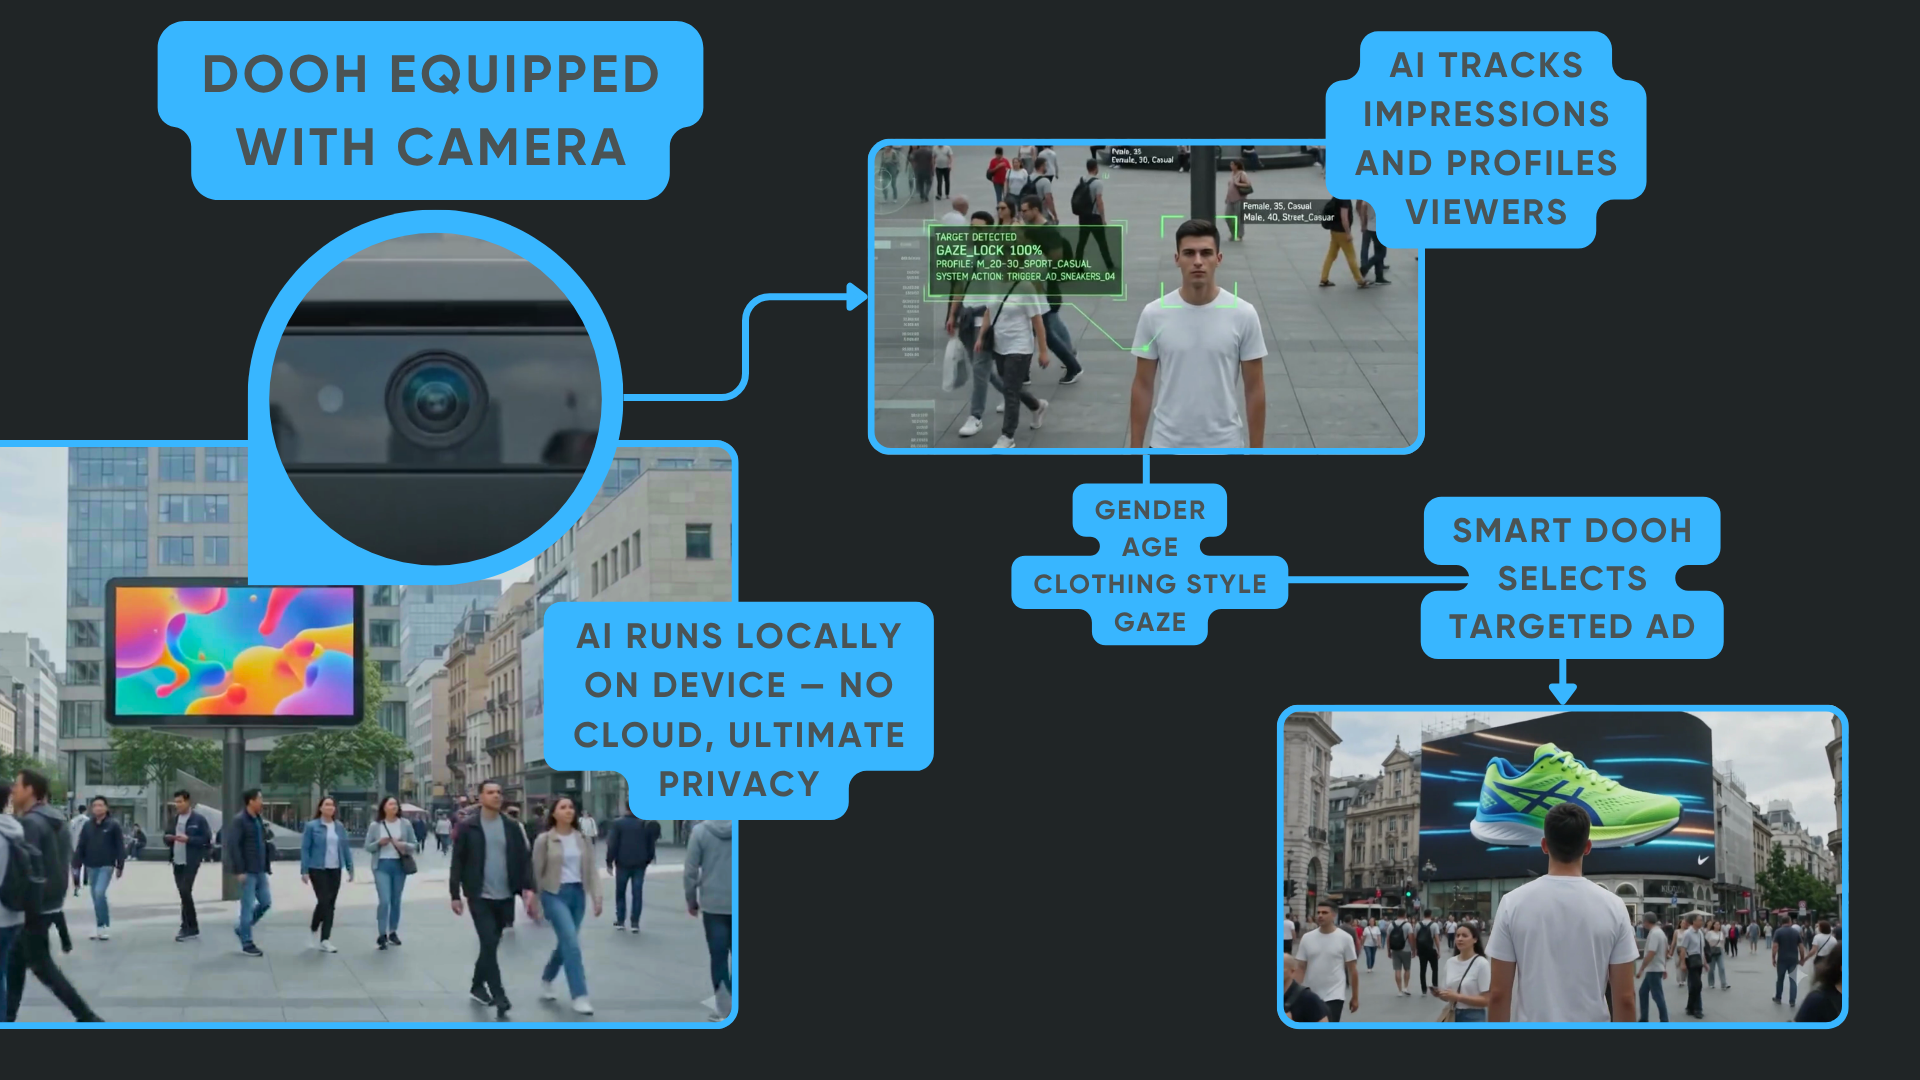
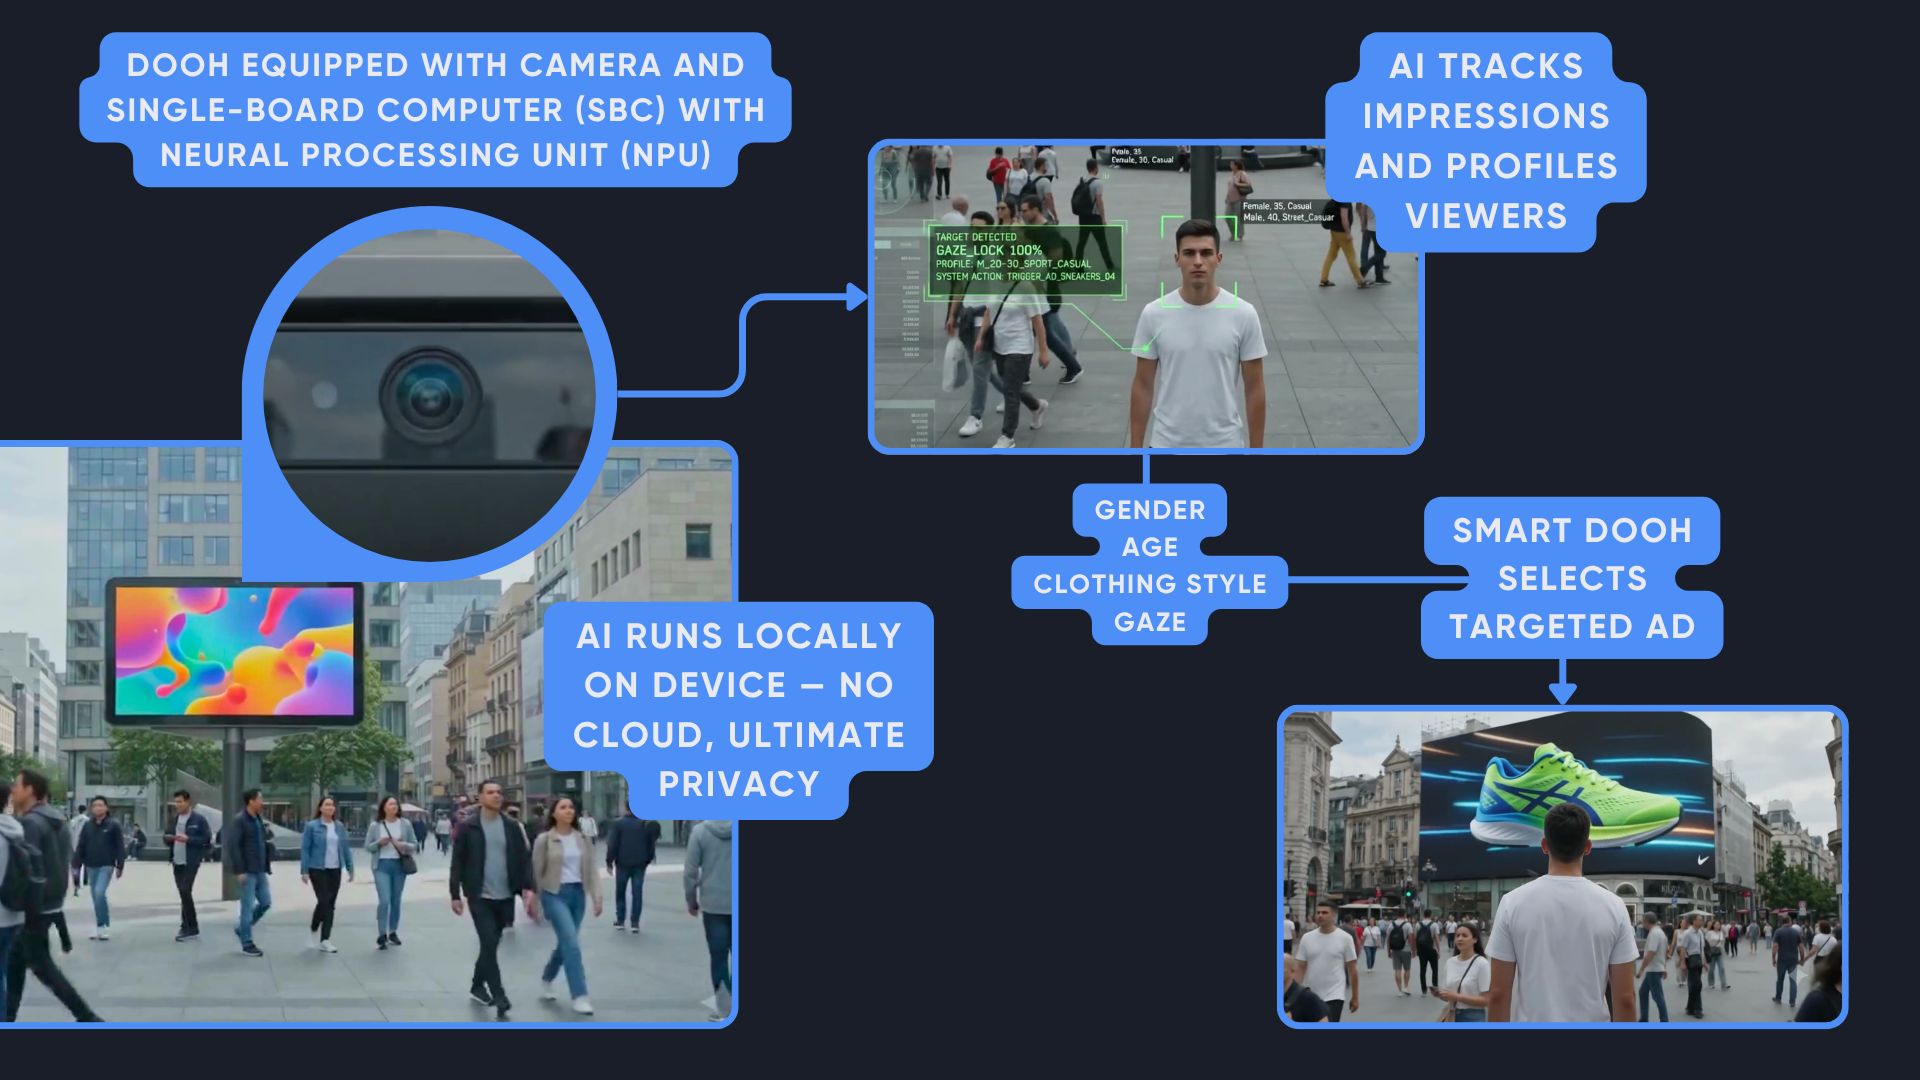
Update hero infographic and round its container
Replace adeye.png with the revised artwork and add rounded corners
to the infographic hosting frame.

diff --git a/index.html b/index.html
@@ -139,12 +139,14 @@
       border: 1px solid var(--border);
       background: var(--surface);
       overflow: hidden;
+      border-radius: 16px;
     }
 
     .hero-infographic {
       display: block;
       width: 100%;
       height: auto;
+      border-radius: 16px;
     }
 
     /* Video */
@@ -428,7 +430,7 @@
       <div class="hero-media-wrap">
         <img
           src="adeye.png"
-          alt="AdEye workflow: DOOH screen with camera detects a viewer, AI profiles gender, age, clothing and gaze locally on device, then selects a targeted ad"
+          alt="AdEye workflow: DOOH screen with camera and on-board NPU detects viewers, AI profiles gender, age, clothing and gaze locally, then selects a targeted ad"
           class="hero-infographic"
           width="1920"
           height="1080">